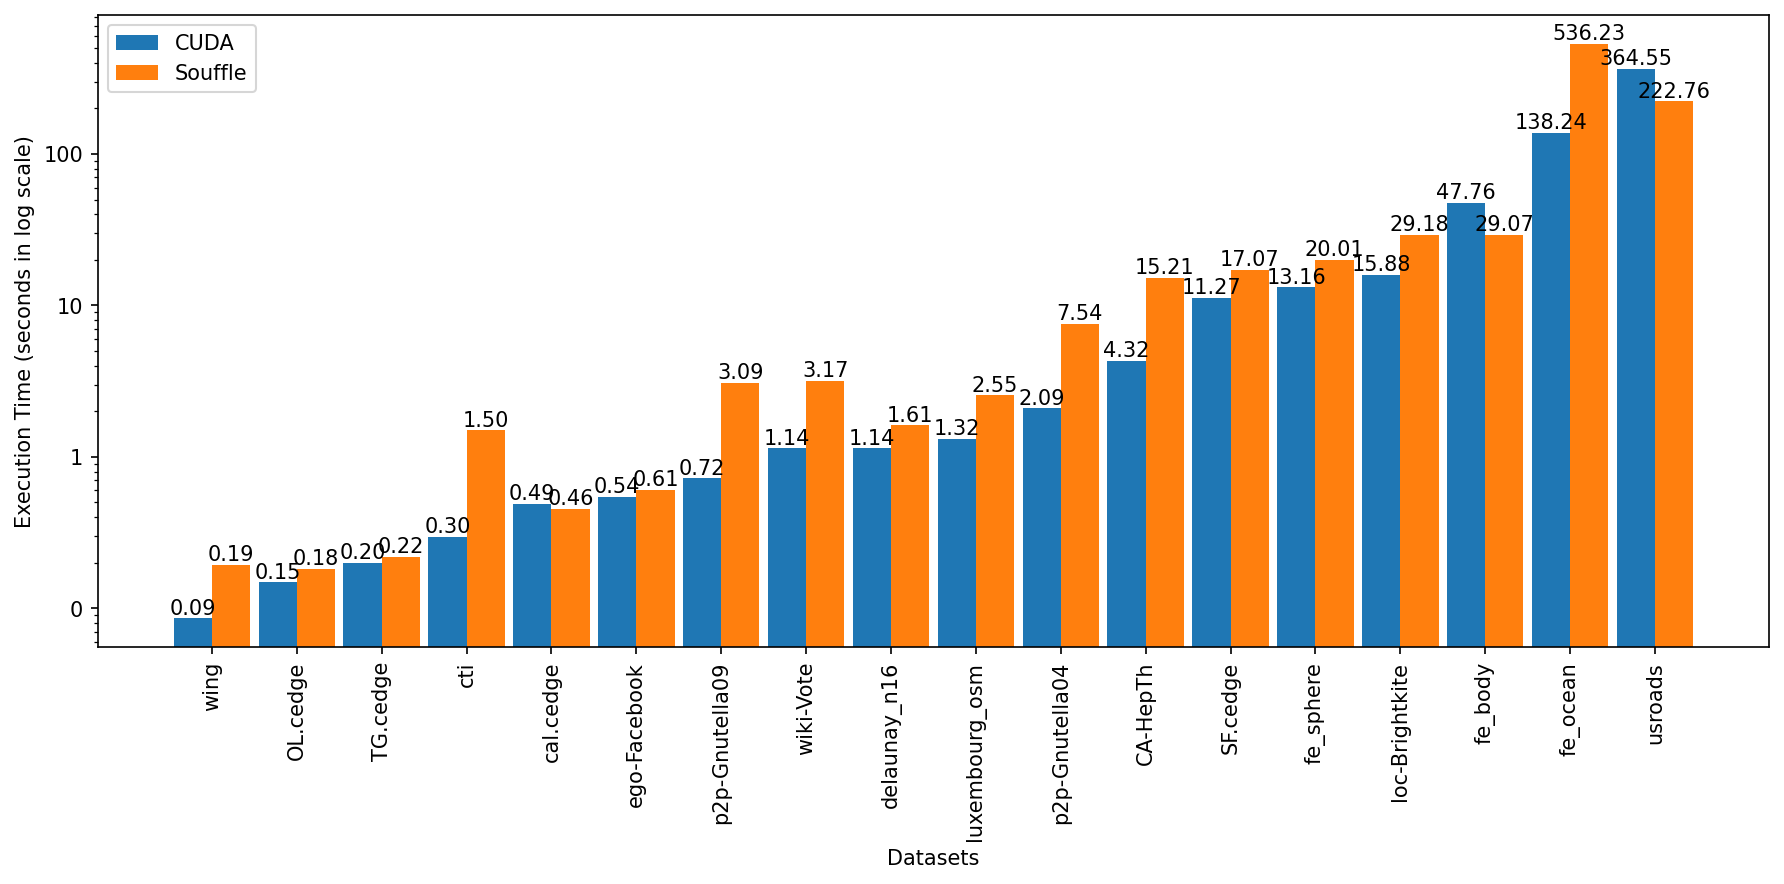
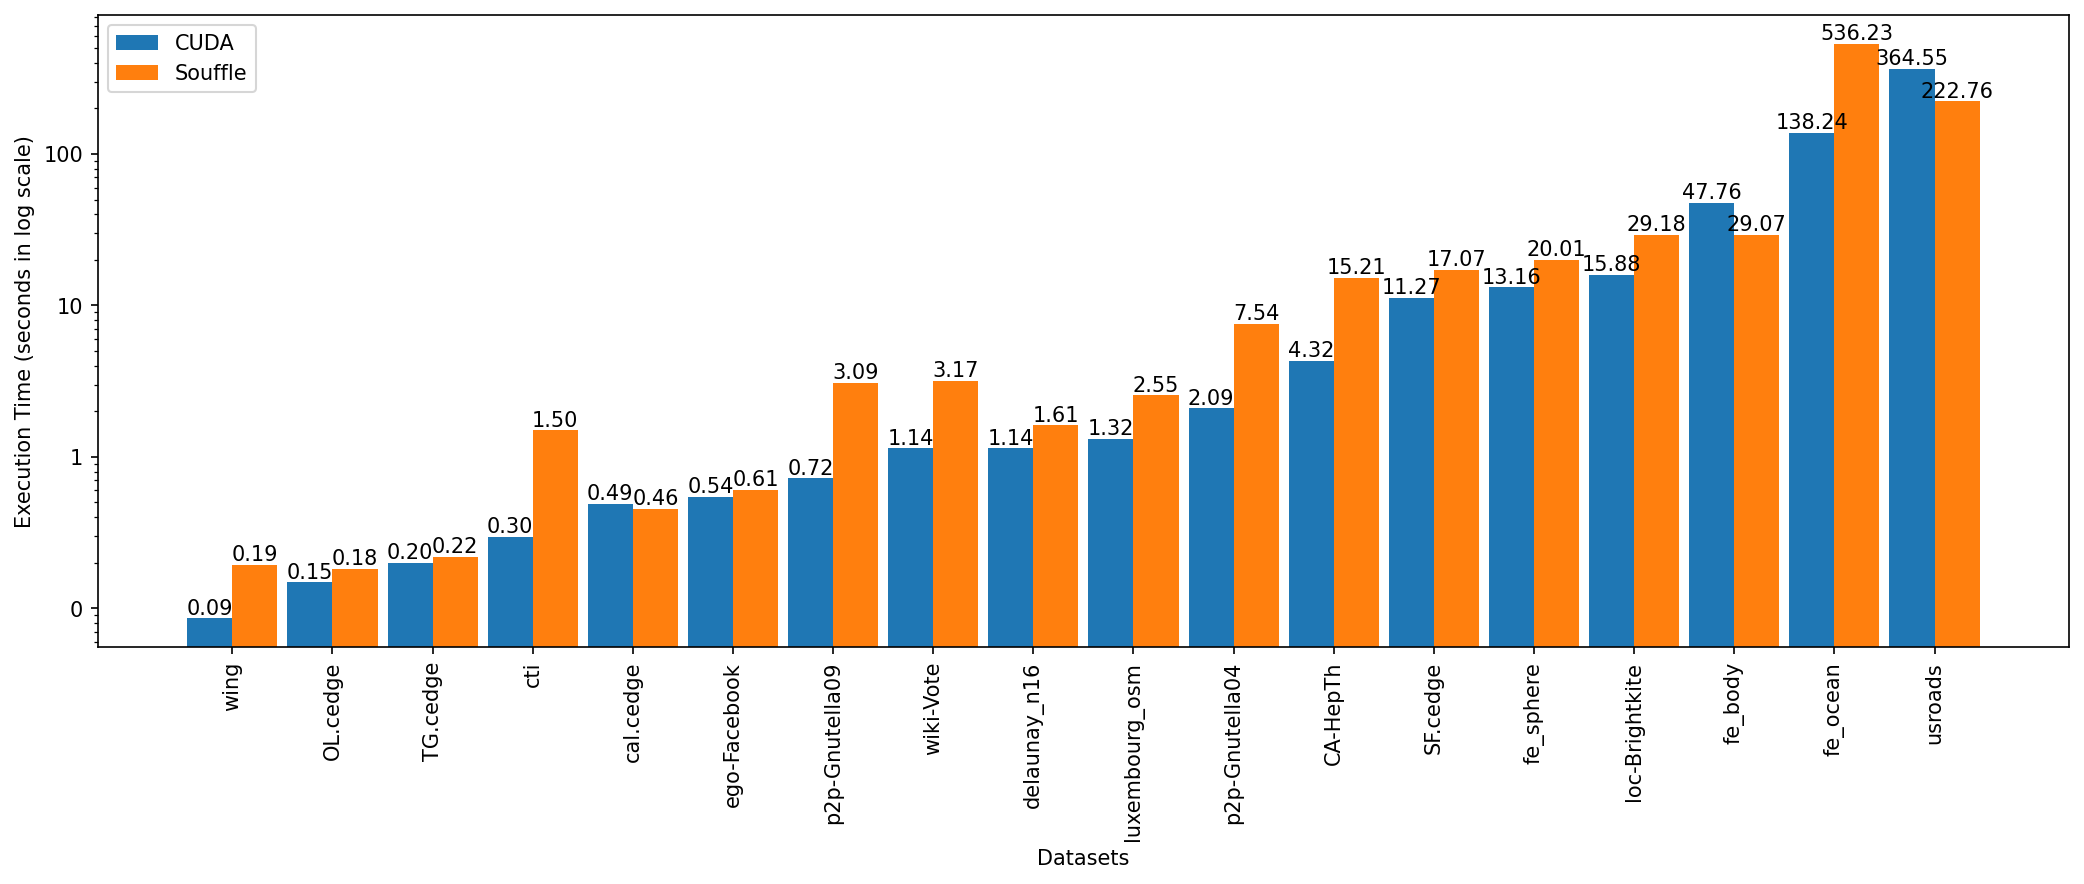
Added graphs

diff --git a/tc_cuda/chart_generation/generate_bar_chart.py b/tc_cuda/chart_generation/generate_bar_chart.py
@@ -41,7 +41,7 @@ def draw_bar_chart(xtick_labels, datasets, dataset_titles,
     if title:
         ax.set_title(title)
     if len(datasets[0]) > 7:
-        ax.set_xticks(label_locations, xtick_labels, rotation=90)
+        ax.set_xticks(label_locations, xtick_labels, rotation='vertical')
     else:
         ax.set_xticks(label_locations, xtick_labels)
     ax.legend()
@@ -67,7 +67,23 @@ def show_cuda_pinned_unified():
     output_filename = os.path.join("output", "pinned_vs_unified.png")
     draw_bar_chart(dataset_labels, [pinned_dataset, unified_dataset], [pinned_dataset_title, unified_dataset_title],
                    x_label, y_label,
-                   figure_path=output_filename)
+                   figure_path=output_filename, figure_width=10, figure_height=5)
+
+
+def show_cuda_cudf_join():
+    dataset_labels = ['random 1000000', 'random 2000000', 'random 3000000', 'random 4000000', 'random 5000000',
+                      'string 1000000', 'string 2000000', 'string 3000000', 'string 4000000', 'string 5000000']
+    cuda_dataset = [0.118800, 0.443422, 0.986914, 1.727381, 2.640382, 0.014831, 0.022604, 0.031009, 0.038893, 0.049386]
+    cuda_dataset_title = "CUDA"
+    cudf_dataset = [1.009139, 3.559351, 7.486542, 13.013476, 20.446236, 0.144650, 0.363000, 0.577207, 0.826158,
+                    1.062329]
+    cudf_dataset_title = "cuDF"
+    x_label = "Datasets"
+    y_label = "Execution Time (seconds in log scale)"
+    output_filename = os.path.join("output", "cuda_vs_cudf_join.png")
+    draw_bar_chart(dataset_labels, [cuda_dataset, cudf_dataset], [cuda_dataset_title, cudf_dataset_title],
+                   x_label, y_label,
+                   figure_path=output_filename, figure_width=10, figure_height=6)
 
 
 def show_cuda_souffle():
@@ -83,11 +99,56 @@ def show_cuda_souffle():
     x_label = "Datasets"
     y_label = "Execution Time (seconds in log scale)"
     output_filename = os.path.join("output", "cuda_vs_souffle.png")
-    draw_bar_chart(dataset_labels, [cuda_dataset, souffle_dataset], [cuda_dataset_title, souffle_dataset_title],
+    draw_bar_chart(dataset_labels, [cuda_dataset, souffle_dataset],
+                   [cuda_dataset_title, souffle_dataset_title],
                    x_label, y_label,
-                   figure_path=output_filename, figure_width=12, figure_height=6)
+                   figure_path=output_filename, figure_width=14, figure_height=6)
+
+
+def show_cuda_cudf():
+    dataset_labels = ['CA-HepTh', 'SF.cedge', 'p2p-Gnutella09', 'p2p-Gnutella04', 'cal.cedge', 'TG.cedge', 'OL.cedge',
+                      'luxembourg_osm', 'wiki-Vote', 'wing', 'ego-Facebook', 'delaunay_n16',
+                      'fe_sphere', 'loc-Brightkite', 'fe_ocean', 'cti', 'fe_body', 'usroads']
+    cuda_dataset = [4.3180, 11.2749, 0.7202, 2.0920, 0.4894, 0.1989, 0.1481, 1.3222, 1.1372, 0.0857,
+                    0.5442, 1.1374, 13.1590, 15.8805, 138.2379, 0.2953, 47.7587, 364.5549]
+    cuda_dataset_title = "CUDA"
+    cudf_dataset = [26.115098, 64.417961, 3.906619, 14.005228, 2.756417, 0.857208, 0.523132,
+                    8.194708, 6.841340, 0.905852, 3.719607, 5.596315, 80.077607, 0, 0, 3.181488, 0, 0]
+    cudf_dataset_title = "cuDF"
+    x_label = "Datasets"
+    y_label = "Execution Time (seconds in log scale)"
+    output_filename = os.path.join("output", "cuda_vs_cudf.png")
+    draw_bar_chart(dataset_labels, [cuda_dataset, cudf_dataset],
+                   [cuda_dataset_title, cudf_dataset_title],
+                   x_label, y_label,
+                   figure_path=output_filename, figure_width=14, figure_height=6)
+
+def show_cuda_souffle_cudf():
+    dataset_labels = ['CA-HepTh', 'SF.cedge', 'p2p-Gnutella09', 'p2p-Gnutella04', 'cal.cedge', 'TG.cedge', 'OL.cedge',
+                      'luxembourg_osm', 'wiki-Vote', 'wing', 'ego-Facebook', 'delaunay_n16',
+                      'fe_sphere', 'loc-Brightkite', 'fe_ocean', 'cti', 'fe_body', 'usroads']
+    cuda_dataset = [4.3180, 11.2749, 0.7202, 2.0920, 0.4894, 0.1989, 0.1481, 1.3222, 1.1372, 0.0857,
+                    0.5442, 1.1374, 13.1590, 15.8805, 138.2379, 0.2953, 47.7587, 364.5549]
+    cuda_dataset_title = "CUDA"
+    souffle_dataset = [15.206, 17.073, 3.094, 7.537, 0.455, 0.219, 0.181, 2.548, 3.172, 0.193,
+                       0.606, 1.612, 20.008, 29.184, 536.233, 1.496, 29.070, 222.761]
+    souffle_dataset_title = "Souffle"
+    cudf_dataset = [26.115098, 64.417961, 3.906619, 14.005228, 2.756417, 0.857208, 0.523132,
+                    8.194708, 6.841340, 0.905852, 3.719607, 5.596315, 80.077607, 0, 0, 3.181488, 0, 0]
+    cudf_dataset_title = "cuDF"
+    x_label = "Datasets"
+    y_label = "Execution Time (seconds in log scale)"
+    output_filename = os.path.join("output", "cuda_vs_souffle_vs_cudf.png")
+    draw_bar_chart(dataset_labels, [cuda_dataset, souffle_dataset, cudf_dataset],
+                   [cuda_dataset_title, souffle_dataset_title, cudf_dataset_title],
+                   x_label, y_label,
+                   figure_path=output_filename, figure_width=16, figure_height=6)
+
 
 
 if __name__ == "__main__":
+    # show_cuda_cudf_join()
     # show_cuda_pinned_unified()
     show_cuda_souffle()
+    show_cuda_cudf()
+    show_cuda_souffle_cudf()

diff --git a/tc_cuda/chart_generation/README.md b/tc_cuda/chart_generation/README.md
@@ -12,8 +12,20 @@
 - Bar charts generated comparing memory model: [output/pinned_vs_unified.png](output/pinned_vs_unified.png)
 
 ### Demo 
+#### Comparison between CUDA and Souffle
+![alt CUDA vs souffle](output/cuda_vs_souffle.png)
+
+#### Comparison between CUDA and cuDF
+![alt CUDA vs cuDF](output/cuda_vs_cudf.png)
+
+#### Comparison between CUDA and Souffle and cuDF
+![alt CUDA vs souffle vs cuDF](output/cuda_vs_souffle_vs_cudf.png)
+
 #### Comparison between CUDA pinned memory and CUDA unified memory
 ![alt memory model comparison](output/pinned_vs_unified.png)
+
+#### Comparison between isolated join operation on CUDA and cuDF
+![alt JOIN comparison](output/cuda_vs_cudf_join.png)
 
 #### Iteration level operation breakdown
 - SF.cedge:
